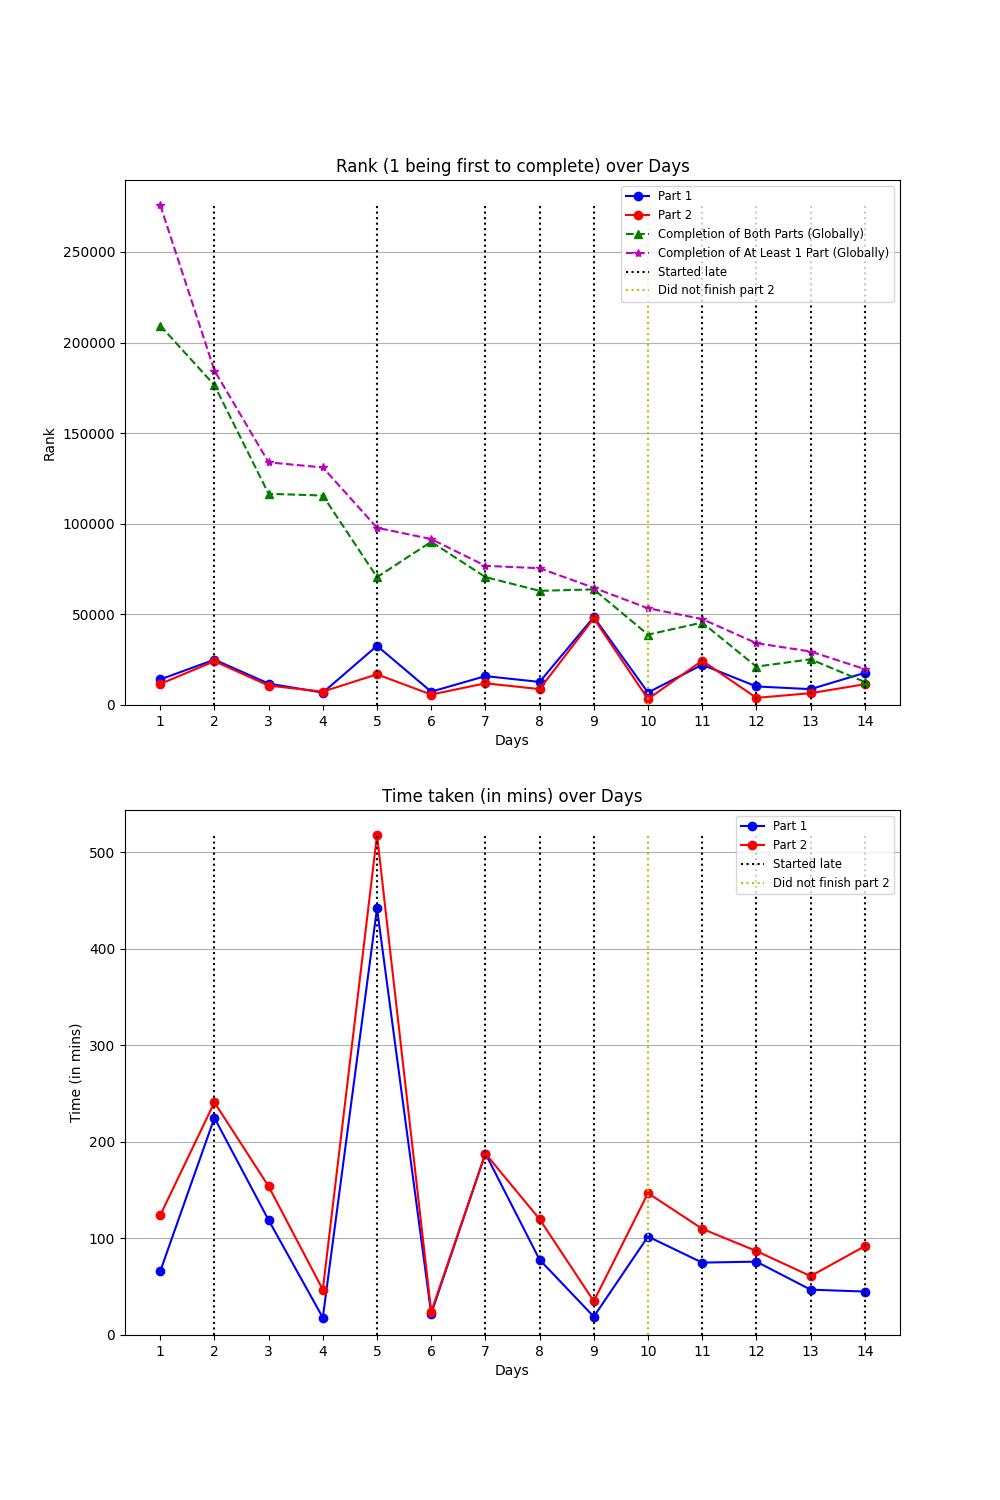
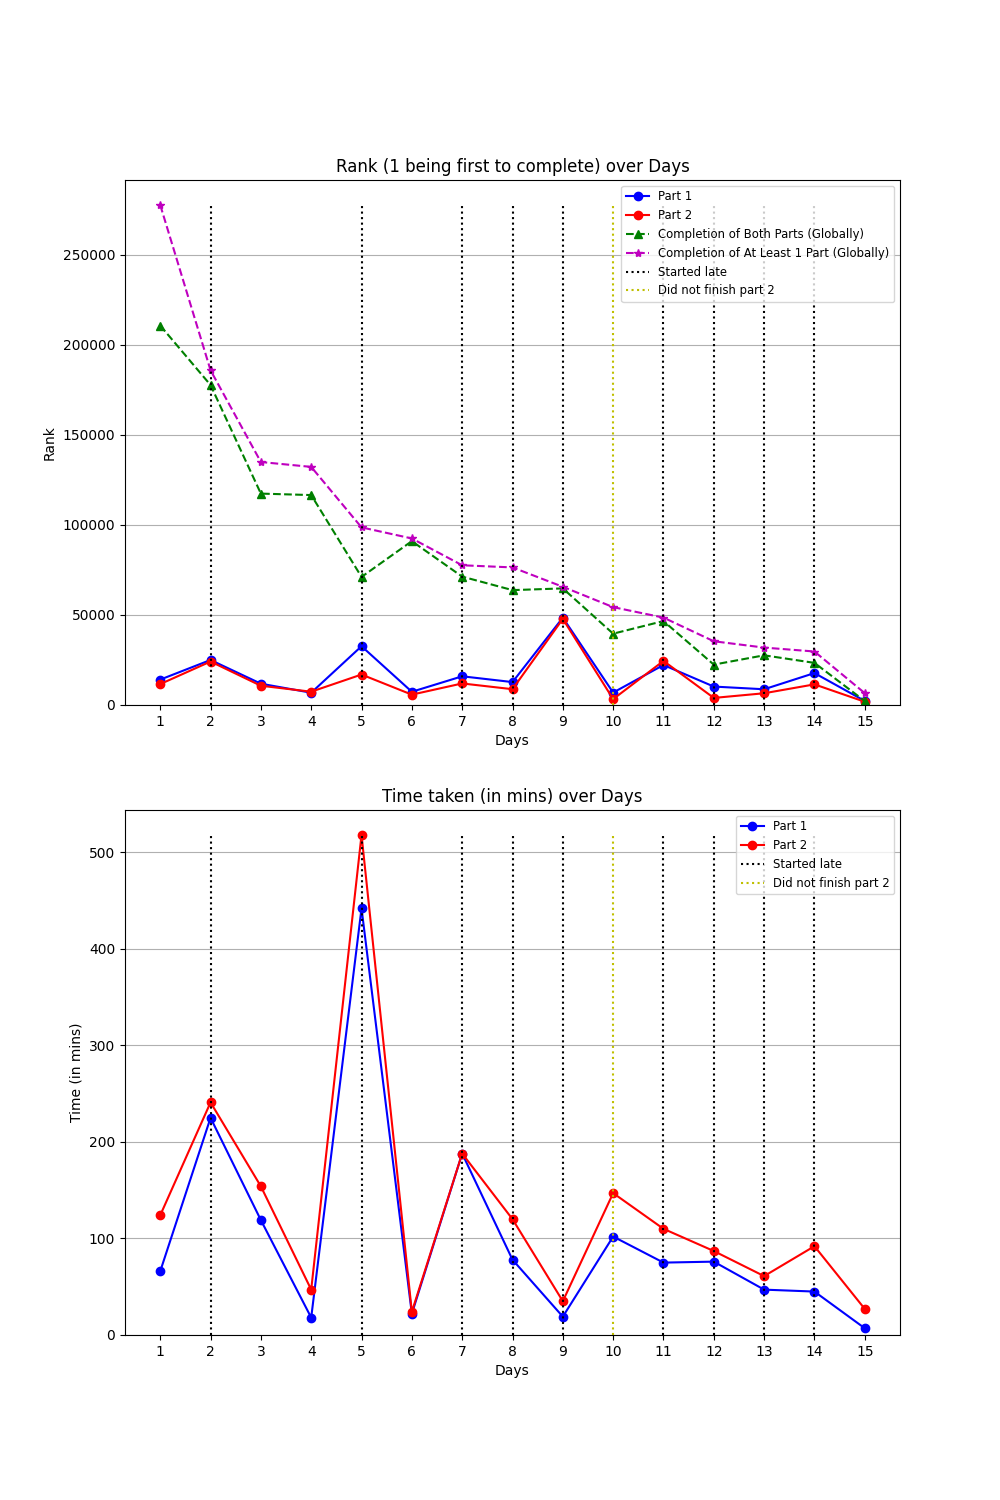
Added day 15 stats and code

diff --git a/stats/stats.py b/stats/stats.py
@@ -3,19 +3,23 @@ import matplotlib.pyplot as plt
 
 # rank for part 1
 one_rank = [14_101, 25_010, 11_831, 6_816, 32_645, 7_344, 15_939, 
-            12_729, 48_507, 6_895, 22_213, 10_237, 8_741, 17_734]
+            12_729, 48_507, 6_895, 22_213, 10_237, 8_741, 17_734,
+            2242]
 
 # rank for part 2                
 two_rank = [11_613, 24_146, 10_693, 7_384, 16_922, 5_753, 11_968, 
-            8_778, 47_813, 3_266, 24_483, 3_930, 6_520, 11_457]
+            8_778, 47_813, 3_266, 24_483, 3_930, 6_520, 11_457,
+            1790]
 
 # number of people that completed both parts
-two_stars_tot = [209_374, 176_443, 116_527, 115_596, 70_542, 90_055, 70_592, 
-                 62_998, 63_778, 38_826, 45_482, 21_179, 25_230, 12_727]
+two_stars_tot = [210_768, 177_708, 117_414, 116_605, 71_135, 91_012, 71_307, 
+                 63_807, 64_763, 39_615, 46_627, 22_431, 27_597, 23_399,
+                 2_202]
 
 # number of people that completed part 1 only
-add = [66_514, 8_126, 17_357, 15_485, 27_260, 1_497, 6_197, 
-       12_479, 892, 14_556, 1_930, 12_942, 4_288, 7_074]
+add = [66_950, 8_195, 17_551, 15_647, 27_520, 1_486, 6_301, 
+       12_612, 901, 14_739, 1_913, 12_971, 4_292, 6_316,
+       4_375]
 
 # days where I did not start on time
 anomalies = [2, 5, 7, 8, 9, 11, 12, 13, 14]
@@ -25,11 +29,13 @@ DNF_2 = [10]
 
 # time taken for part 1 in (hrs, mins, secs)
 one_time = [(1,6,6), (3,44,38), (1,59,16), (0,18,0), (7,22,24), (0,22,7), (3,8,21), 
-            (1,18,15), (0,19,0), (1,41,34), (1,15,0), (1,15,59), (0,47,0), (0,45,0)]   
+            (1,18,15), (0,19,0), (1,41,34), (1,15,0), (1,15,59), (0,47,0), (0,45,0),
+            (0,6,54)]   
 
 # time taken for part 2 in (hrs, mins, secs)
 two_time = [(2,3,32), (4,0,37), (2,34,4), (0,46,44), (8,38,27), (0,24,7), (3,8,29), 
-            (1,59,59), (0,35,0), (2,26,53), (1,50,0), (1,27,13), (1,1,7), (1,31,45)]
+            (1,59,59), (0,35,0), (2,26,53), (1,50,0), (1,27,13), (1,1,7), (1,31,45),
+            (0,27,5)]
    
 i = len(one_rank) + 1
 

diff --git a/day_15/day_15.py b/day_15/day_15.py
@@ -1,0 +1,55 @@
+chars = []
+FNAME = "day_15.txt"
+
+with open(FNAME, "r") as f:
+    for line in f:
+        chars = line.strip().split(",")
+
+def hash(chars):
+    char_sum = 0
+    for c in chars:
+        char_sum += ord(c)
+        char_sum *= 17
+        char_sum %= 256
+    return char_sum
+
+def part_1():
+    tot = 0
+    for char in chars:
+        tot += hash(char)
+    print(tot)
+
+def part_2():
+    boxes = {i: [] for i in range(256)}
+    for char in chars:
+        if "=" in char:
+            s, focal = char.split("=")
+            idx = hash(s)
+            if s in list(map(lambda x: x[0], boxes[idx])):
+                for i, pair in enumerate(boxes[idx]):
+                    if pair[0] == s:
+                        boxes[idx][i] = (s, int(focal))
+                        break
+            else:
+                boxes[idx].append((s, int(focal)))
+        else:
+            s, _ = char.split("-")
+            idx = hash(s)
+            for pair in boxes[idx]:
+                if pair[0] == s:
+                    boxes[idx].remove(pair)
+    tot = 0
+    for i in range(256):
+        if not boxes[i]:
+            continue
+        else:
+            order = 1
+            num = 0
+            for pair in boxes[i]:
+                num += (1 + i) * order * pair[1]
+                order += 1
+        tot += num
+    print(tot)
+
+part_1()
+part_2()

diff --git a/README.md b/README.md
@@ -46,6 +46,8 @@ Huge thanks to the creator of AOC, [Eric Wastl](http://was.tl/).
     * Part 2 was simply to refactor my check_height() function to account for smidges, which did not take long.
 14. Parabolic Reflector Dish (2/2 stars)
     * A rather simple problem. As usual I had several off-by-one errors but managed to complete it within the 90 minute mark. I appreciated the subtle twist in the cycle detection algorithm required in part 2 as I didn't realise a cycle could occur until I got a hint from the Discord. I realised too that rather than implementing the hare and tortoise traversal algorithm I could just generate the spins and check if it had occured before, and take that as the start of the loop.
+15. Lens Library (2/2 stars)
+    * Another simple problem (thank you Eric). An interesting introduction to simple hashing algorithms (reminiscent of SHA256). Beyond that it was more a reading problem (skill issue on my part tbh) than a coding problem. Possibly my very first every sub 30 minute submission. Next time I'll try for sub-20!!
 
 # Analysis of Times and Completion
 From Day 9 onwards, all timings are recorded from when I opened the problem set, not when the problem set is released. I will still indicate if I start late or did not finish as per normal
